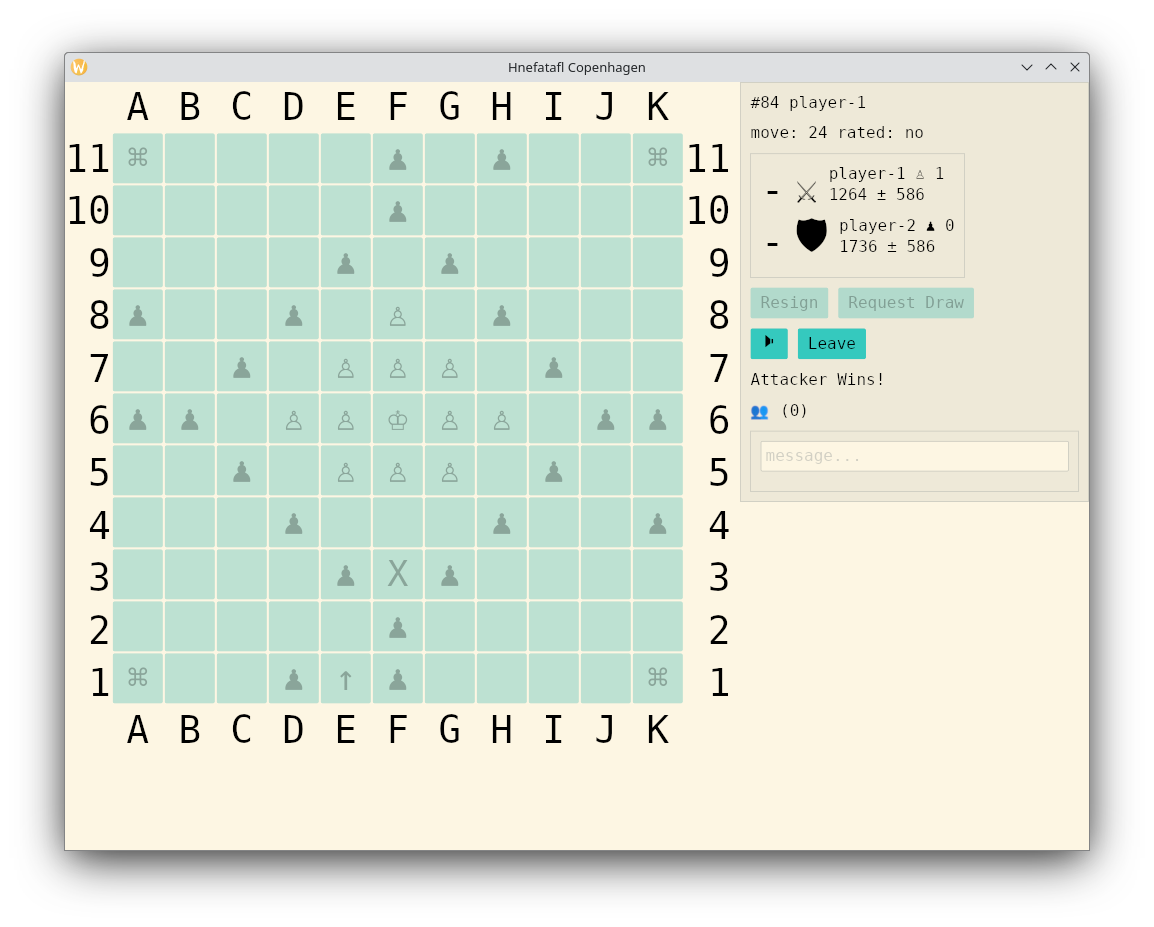
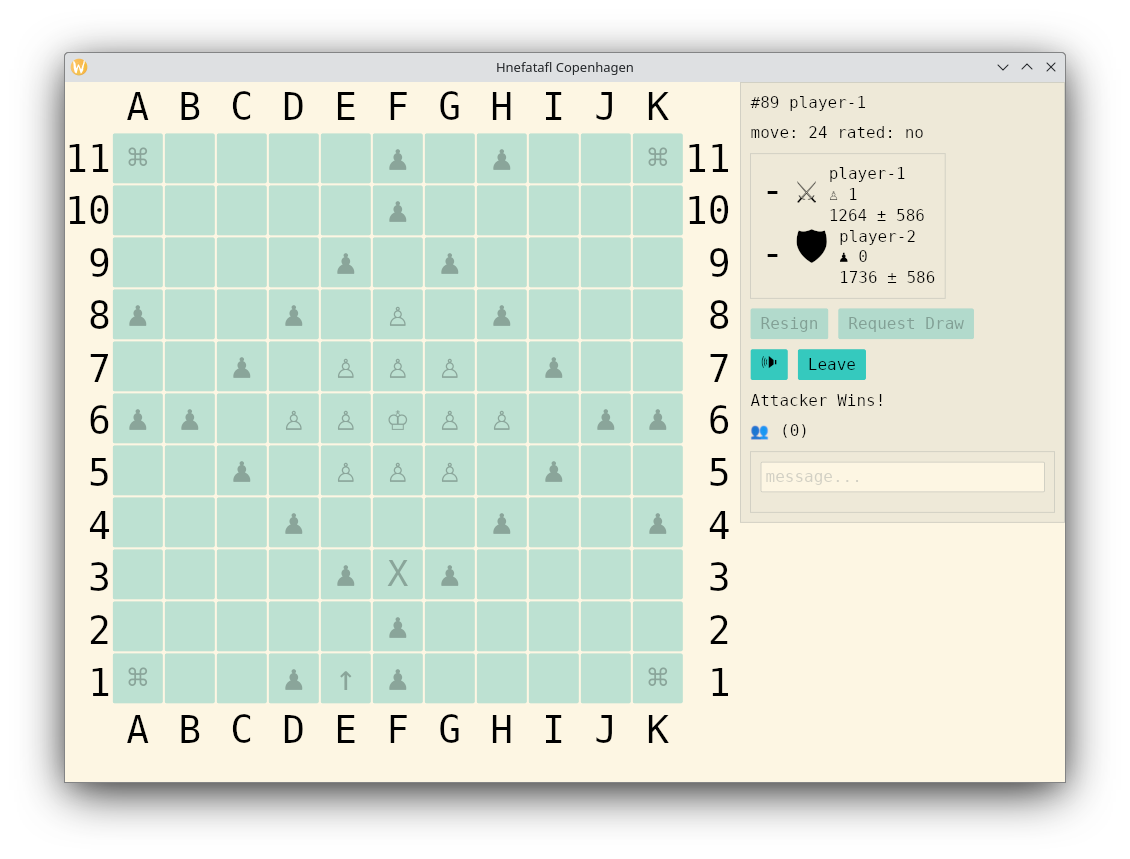
Resize the small board.

Changed region(s): [[0.031, 0.0303, 0.9602, 0.8778], [0.0619, 0.908, 0.9602, 0.9383]]

diff --git a/src/bin/hnefatafl-client.rs b/src/bin/hnefatafl-client.rs
@@ -66,6 +66,10 @@ fn main() -> anyhow::Result<()> {
         .default_font(Font::MONOSPACE)
         .subscription(Client::subscriptions)
         .theme(Client::theme)
+        .window_size(iced::Size {
+            width: 1_000.0,
+            height: 700.0,
+        })
         .run()?;
 
     Ok(())
@@ -1228,9 +1232,8 @@ impl Client {
                         text(self.time_attacker.fmt_shorthand()).size(40).center(),
                         text("⚔").shaping(text::Shaping::Advanced).size(40).center(),
                         column![
-                            text(format!("{} {}", self.attacker, captured.white()))
-                                .shaping(text::Shaping::Advanced)
-                                .center(),
+                            text(self.attacker.to_string()),
+                            text(captured.white().to_string()).shaping(text::Shaping::Advanced),
                             text(attacker_rating.to_string()).center(),
                         ]
                     ]
@@ -1239,9 +1242,8 @@ impl Client {
                         text(self.time_defender.fmt_shorthand()).size(40).center(),
                         text("🛡").shaping(text::Shaping::Advanced).size(40).center(),
                         column![
-                            text(format!("{} {}", self.defender, captured.black()))
-                                .shaping(text::Shaping::Advanced)
-                                .center(),
+                            text(self.defender.to_string()),
+                            text(captured.black().to_string()).shaping(text::Shaping::Advanced),
                             text(defender_rating.to_string()).center(),
                         ]
                     ]
